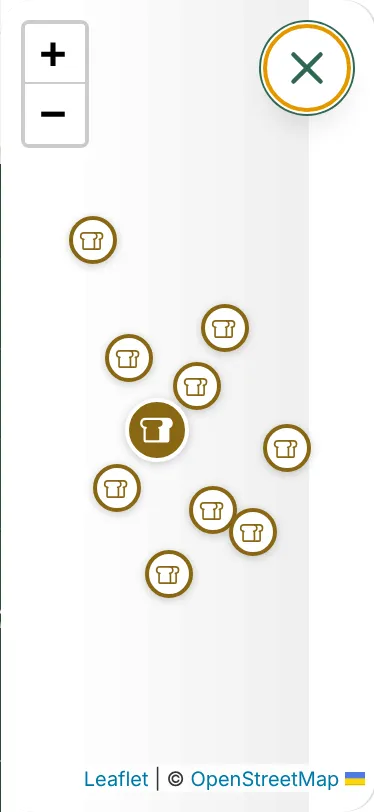
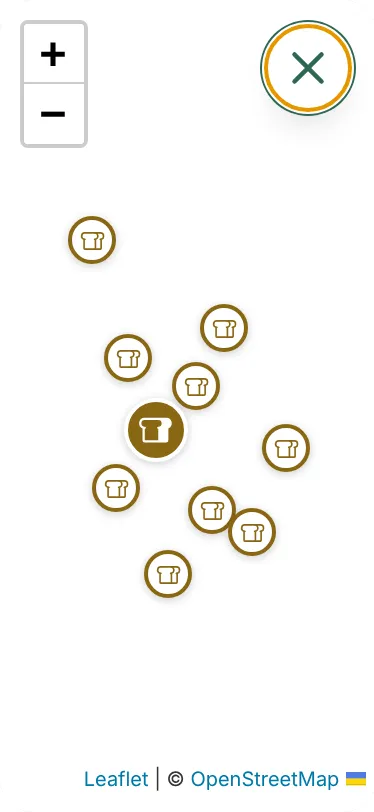
fix(map): read the visible box through useSyncExternalStore, not setState in an effect [preview] (MEH-3509)
The eslint ratchet (react-hooks/set-state-in-effect) failed on the hook. The
snapshot is now a string read by useSyncExternalStore: right on the overlay's
first render, and equal across a scroll that moves nothing. Screenshots
re-shot on the new build.

Builder-Model: claude-opus-5-5

Claude-Session: https://claude.ai/code/session_01X8DSqVG3H5nNoZbKAra5Lf

diff --git a/frontend/lib/use-visual-viewport-box.js b/frontend/lib/use-visual-viewport-box.js
@@ -1,7 +1,7 @@
 // @ts-check
 "use client";
 
-import { useLayoutEffect, useState } from "react";
+import { useCallback, useMemo, useSyncExternalStore } from "react";
 
 /**
  * Module:   use-visual-viewport-box
@@ -27,50 +27,43 @@ import { useLayoutEffect, useState } from "react";
  * exactly as before. Width is not compared on purpose: a desktop scrollbar
  * makes `vv.width` narrower than `innerWidth` with nothing wrong.
  *
- * A layout effect, so the box lands before paint and the overlay never shows a
- * frame with its X off-screen.
+ * Read through useSyncExternalStore: the box is right on the first render of
+ * the overlay (no frame with the X off-screen) and no state is set in an effect.
+ * The snapshot is a string, so a scroll event that moves nothing compares equal
+ * and does not re-render the map.
  *
  * @param {boolean} active
  * @returns {{ top: number, left: number, width: number, height: number } | null}
  */
 export function useVisualViewportBox(active) {
-  const [box, setBox] = useState(
-    /** @type {{ top: number, left: number, width: number, height: number } | null} */ (null),
+  const subscribe = useCallback(
+    /** @param {() => void} onChange */
+    (onChange) => {
+      const vv = active && typeof window !== "undefined" ? window.visualViewport : null;
+      if (!vv) return () => {};
+      vv.addEventListener("resize", onChange);
+      vv.addEventListener("scroll", onChange);
+      return () => {
+        vv.removeEventListener("resize", onChange);
+        vv.removeEventListener("scroll", onChange);
+      };
+    },
+    [active],
   );
-
-  useLayoutEffect(() => {
-    const vv = typeof window === "undefined" ? undefined : window.visualViewport;
-    if (!active || !vv) {
-      setBox(null);
-      return undefined;
-    }
-    const read = () => {
-      const shifted =
-        vv.scale > 1.01 || vv.offsetTop > 1 || vv.offsetLeft > 1 || vv.height < window.innerHeight - 1;
-      const next = shifted
-        ? { top: vv.offsetTop, left: vv.offsetLeft, width: vv.width, height: vv.height }
-        : null;
-      // Same box → same object, so a scroll event that moves nothing does not
-      // re-render the map.
-      setBox((prev) => (sameBox(prev, next) ? prev : next));
-    };
-    read();
-    vv.addEventListener("resize", read);
-    vv.addEventListener("scroll", read);
-    return () => {
-      vv.removeEventListener("resize", read);
-      vv.removeEventListener("scroll", read);
-    };
-  }, [active]);
-
-  return box;
+  const getSnapshot = useCallback(() => (active ? snapshotKey() : ""), [active]);
+  const key = useSyncExternalStore(subscribe, getSnapshot, () => "");
+  return useMemo(() => {
+    if (!key) return null;
+    const [top, left, width, height] = key.split(",").map(Number);
+    return { top, left, width, height };
+  }, [key]);
 }
 
-/**
- * @param {{ top: number, left: number, width: number, height: number } | null} a
- * @param {{ top: number, left: number, width: number, height: number } | null} b
- */
-function sameBox(a, b) {
-  if (a === null || b === null) return a === b;
-  return a.top === b.top && a.left === b.left && a.width === b.width && a.height === b.height;
+/** "" when there is nothing to correct, else "top,left,width,height". */
+function snapshotKey() {
+  const vv = typeof window === "undefined" ? null : window.visualViewport;
+  if (!vv) return "";
+  const shifted =
+    vv.scale > 1.01 || vv.offsetTop > 1 || vv.offsetLeft > 1 || vv.height < window.innerHeight - 1;
+  return shifted ? `${vv.offsetTop},${vv.offsetLeft},${vv.width},${vv.height}` : "";
 }
